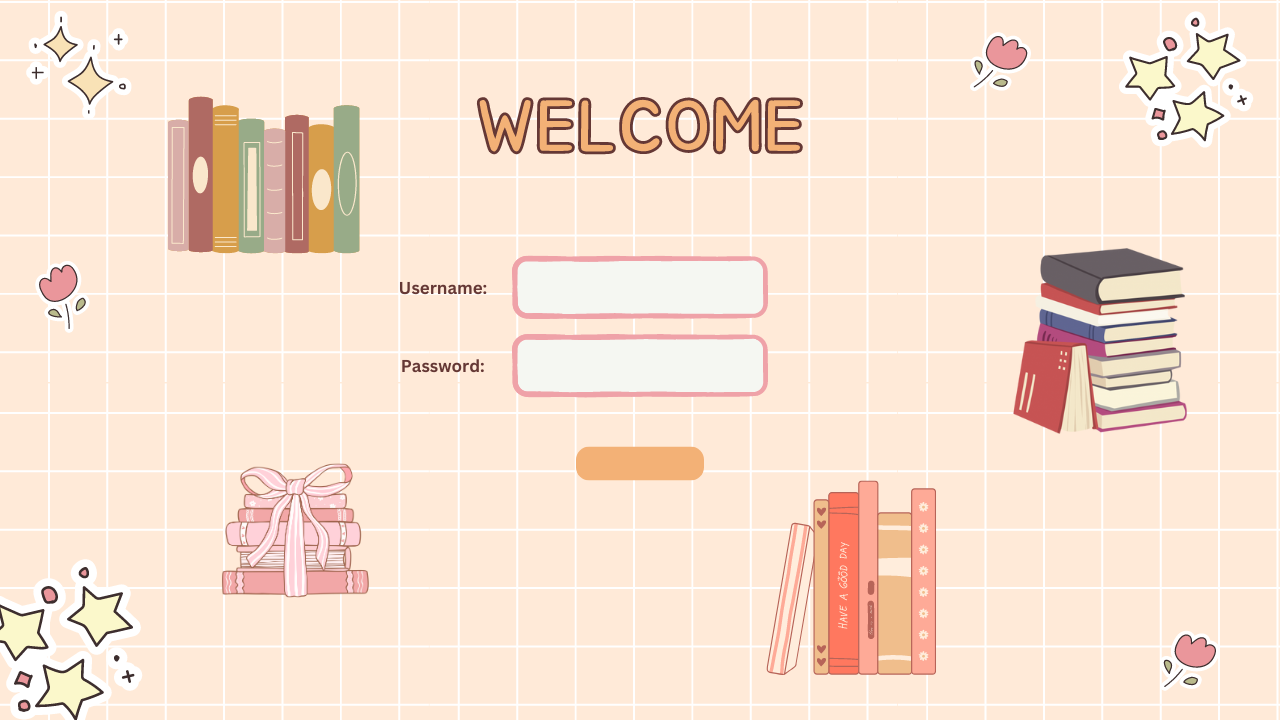
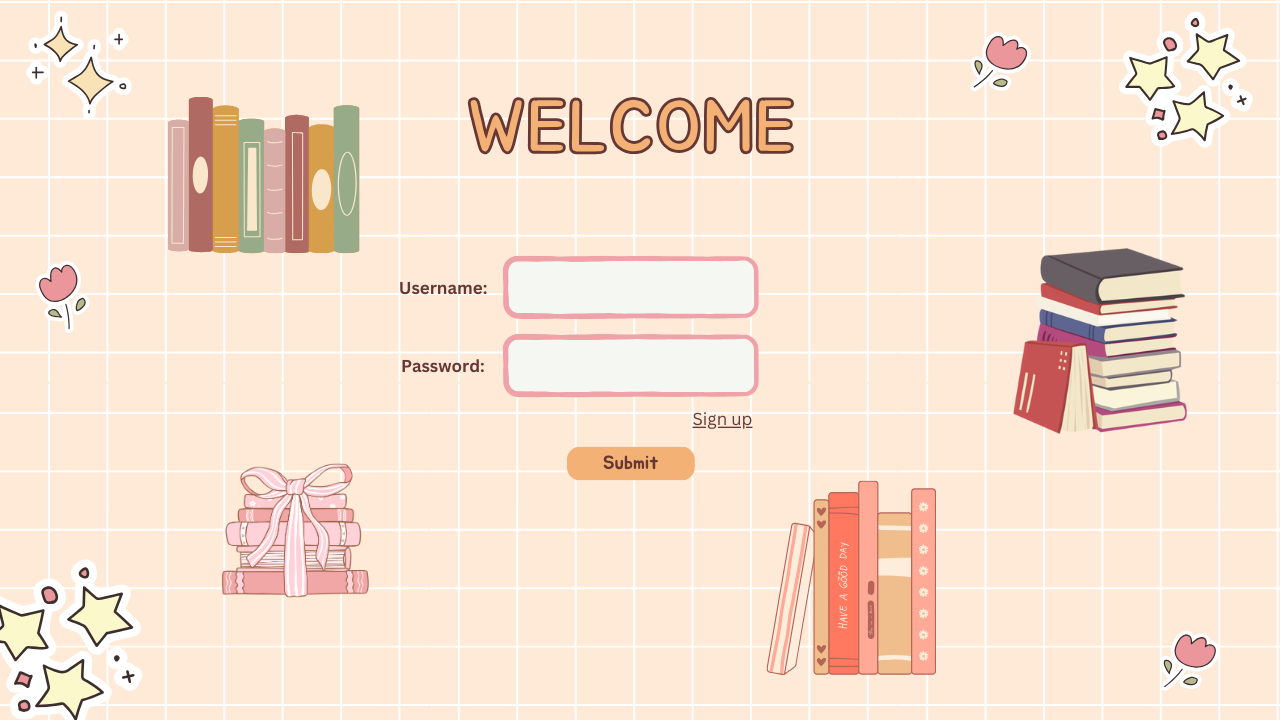
Updated UI of Sign up page, Admin user profile page, and user homepage ui (the design instead of book documentation)

diff --git a/Smart Library Management System/Admin User Profile Page.xaml b/Smart Library Management System/Admin User Profile Page.xaml
@@ -1,0 +1,26 @@
+<Window x:Class="Smart_Library_Management_System.Admin_User_Profile_Page"
+        xmlns="http://schemas.microsoft.com/winfx/2006/xaml/presentation"
+        xmlns:x="http://schemas.microsoft.com/winfx/2006/xaml"
+        xmlns:d="http://schemas.microsoft.com/expression/blend/2008"
+        xmlns:mc="http://schemas.openxmlformats.org/markup-compatibility/2006"
+        xmlns:local="clr-namespace:Smart_Library_Management_System"
+        mc:Ignorable="d"
+        Title="Admin_User_Profile_Page" Height="720" Width="1280">
+    <Window.Background>
+        <ImageBrush ImageSource="/ADMINUSER PROFILE.png"/>
+    </Window.Background>
+    <Grid>
+        <TextBox x:Name="tbAccountID" HorizontalAlignment="Left" Height="26" Margin="683,208,0,0" TextWrapping="Wrap" Text="" VerticalAlignment="Top" Width="239" FontFamily="Verdana" FontSize="18" Background="{x:Null}" BorderBrush="{x:Null}" SelectionBrush="{x:Null}" SelectionTextBrush="{x:Null}" Foreground="#FF653835"/>
+        <TextBox x:Name="tbAccountType" HorizontalAlignment="Left" Height="26" Margin="683,253,0,0" TextWrapping="Wrap" Text="" VerticalAlignment="Top" Width="239" FontFamily="Verdana" FontSize="18" Background="{x:Null}" BorderBrush="{x:Null}" SelectionBrush="{x:Null}" SelectionTextBrush="{x:Null}" Foreground="#FF653835"/>
+        <TextBox x:Name="tbUsername" HorizontalAlignment="Left" Height="26" Margin="683,298,0,0" TextWrapping="Wrap" Text="" VerticalAlignment="Top" Width="239" FontFamily="Verdana" FontSize="18" Background="{x:Null}" BorderBrush="{x:Null}" SelectionBrush="{x:Null}" SelectionTextBrush="{x:Null}" Foreground="#FF653835"/>
+        <TextBox x:Name="tbPassword" HorizontalAlignment="Left" Height="26" Margin="683,343,0,0" TextWrapping="Wrap" Text="" VerticalAlignment="Top" Width="239" FontFamily="Verdana" FontSize="18" Background="{x:Null}" BorderBrush="{x:Null}" SelectionBrush="{x:Null}" SelectionTextBrush="{x:Null}" Foreground="#FF653835"/>
+        <TextBox x:Name="tbFirstName" HorizontalAlignment="Left" Height="26" Margin="683,388,0,0" TextWrapping="Wrap" Text="" VerticalAlignment="Top" Width="239" FontFamily="Verdana" FontSize="18" Background="{x:Null}" BorderBrush="{x:Null}" SelectionBrush="{x:Null}" SelectionTextBrush="{x:Null}" Foreground="#FF653835"/>
+        <TextBox x:Name="tbLastName" HorizontalAlignment="Left" Height="26" Margin="683,433,0,0" TextWrapping="Wrap" Text="" VerticalAlignment="Top" Width="239" FontFamily="Verdana" FontSize="18" Background="{x:Null}" BorderBrush="{x:Null}" SelectionBrush="{x:Null}" SelectionTextBrush="{x:Null}" Foreground="#FF653835"/>
+        <Button x:Name="btnSave" Content="Button" HorizontalAlignment="Left" Height="37" Margin="741,518,0,0" VerticalAlignment="Top" Width="117" Opacity="0.01" Click="btnSave_Click"/>
+        <Button x:Name="btnTakeAPhoto" Content="Button" HorizontalAlignment="Left" Height="38" Margin="360,446,0,0" VerticalAlignment="Top" Width="120" Opacity="0.01"/>
+        <Button x:Name="btnUpload" Content="Button" HorizontalAlignment="Left" Height="38" Margin="223,446,0,0" VerticalAlignment="Top" Width="118" Opacity="0.01" Click="btnUpload_Click"/>
+        <Image x:Name="imagePicture" HorizontalAlignment="Left" Height="150" Margin="278,201,0,0" VerticalAlignment="Top" Width="160"/>
+        <Button x:Name="btnHome" Content="Button" HorizontalAlignment="Left" Height="70" Margin="10,0,0,0" VerticalAlignment="Top" Width="80" Opacity="0.01" Click="btnHome_Click"/>
+
+    </Grid>
+</Window>

diff --git a/Smart Library Management System/Signup Page.xaml b/Smart Library Management System/Signup Page.xaml
@@ -1,0 +1,24 @@
+<Window x:Class="Smart_Library_Management_System.Signup_Page"
+        xmlns="http://schemas.microsoft.com/winfx/2006/xaml/presentation"
+        xmlns:x="http://schemas.microsoft.com/winfx/2006/xaml"
+        xmlns:d="http://schemas.microsoft.com/expression/blend/2008"
+        xmlns:mc="http://schemas.openxmlformats.org/markup-compatibility/2006"
+        xmlns:local="clr-namespace:Smart_Library_Management_System"
+        mc:Ignorable="d"
+        Title="Signup_Page" Height="720" Width="1280">
+    <Window.Background>
+        <ImageBrush ImageSource="/SIGN UP.png"/>
+    </Window.Background>
+    <Grid>
+        <TextBox x:Name="tbFirstName" HorizontalAlignment="Left" Height="26" Margin="669,208,0,0" TextWrapping="Wrap" Text="" VerticalAlignment="Top" Width="228" FontFamily="Verdana" FontSize="18" Background="{x:Null}" BorderBrush="{x:Null}" SelectionBrush="{x:Null}" SelectionTextBrush="{x:Null}" Foreground="#FF653835"/>
+        <TextBox x:Name="tbLastName" HorizontalAlignment="Left" Height="26" Margin="669,274,0,0" TextWrapping="Wrap" Text="" VerticalAlignment="Top" Width="228" FontFamily="Verdana" FontSize="18" Background="{x:Null}" BorderBrush="{x:Null}" SelectionBrush="{x:Null}" SelectionTextBrush="{x:Null}" Foreground="#FF653835"/>
+        <TextBox x:Name="tbUsername" HorizontalAlignment="Left" Height="26" Margin="669,340,0,0" TextWrapping="Wrap" Text="" VerticalAlignment="Top" Width="228" FontFamily="Verdana" FontSize="18" Background="{x:Null}" BorderBrush="{x:Null}" SelectionBrush="{x:Null}" SelectionTextBrush="{x:Null}" Foreground="#FF653835"/>
+        <TextBox x:Name="tbPassword" HorizontalAlignment="Left" Height="26" Margin="669,406,0,0" TextWrapping="Wrap" Text="" VerticalAlignment="Top" Width="228" FontFamily="Verdana" FontSize="18" Background="{x:Null}" BorderBrush="{x:Null}" SelectionBrush="{x:Null}" SelectionTextBrush="{x:Null}" Foreground="#FF653835"/>
+        <TextBox x:Name="tbRepeatPassword" HorizontalAlignment="Left" Height="26" Margin="669,472,0,0" TextWrapping="Wrap" Text="" VerticalAlignment="Top" Width="228" FontFamily="Verdana" FontSize="18" Background="{x:Null}" BorderBrush="{x:Null}" SelectionBrush="{x:Null}" SelectionTextBrush="{x:Null}" Foreground="#FF653835"/>
+        <Button x:Name="btnTakeAPhoto" Content="Button" HorizontalAlignment="Left" Height="32" Margin="313,434,0,0" VerticalAlignment="Top" Width="111" Opacity="0.01" Click="btnTakeAPhoto_Click"/>
+        <Button x:Name="btnUpload" Content="Button" HorizontalAlignment="Left" Height="32" Margin="174,434,0,0" VerticalAlignment="Top" Width="111" Opacity="0.01" Click="btnUpload_Click"/>
+        <Button x:Name="btnAlreadyAMember" Content="Button" HorizontalAlignment="Left" Height="25" Margin="754,519,0,0" VerticalAlignment="Top" Width="165" Click="btnAlreadyAMember_Click" Opacity="0.01"/>
+        <Image x:Name="imagePicture" HorizontalAlignment="Left" Height="150" Margin="221,230,0,0" VerticalAlignment="Top" Width="160"/>
+        <Button x:Name="btnSubmit" Content="Button" HorizontalAlignment="Left" Height="29" Margin="722,556,0,0" VerticalAlignment="Top" Width="121" Opacity="0.01" Click="btnSubmit_Click"/>
+    </Grid>
+</Window>

diff --git a/Smart Library Management System/MainWindow.xaml b/Smart Library Management System/MainWindow.xaml
@@ -7,13 +7,14 @@
         mc:Ignorable="d"
         Title="Login Page" Height="720" Width="1280" ResizeMode="NoResize">
     <Window.Background>
-        <ImageBrush ImageSource="/LOG IN.png"/>
+        <ImageBrush ImageSource="C:\Users\22-0033c\Source\Repos\Smart-Library-Management-System\Smart Library Management System\LOG IN.png"/>
     </Window.Background>
-    <Grid>
+    <Grid Margin="-8,0,8,0">
         <TextBox x:Name="tbUsername" HorizontalAlignment="Center" Height="26" Margin="0,258,0,0" TextWrapping="Wrap" Text="" VerticalAlignment="Top" Width="228" FontFamily="Verdana" FontSize="18" Background="{x:Null}" BorderBrush="{x:Null}" SelectionBrush="{x:Null}" SelectionTextBrush="{x:Null}" Foreground="#FF653835"/>
         <TextBox x:Name="tbPasswordCheck" HorizontalAlignment="Center" Height="26" TextWrapping="Wrap" Text="" VerticalAlignment="Top" Width="228" FontFamily="Verdana" FontSize="18" Background="{x:Null}" BorderBrush="{x:Null}" SelectionBrush="{x:Null}" SelectionTextBrush="{x:Null}" Foreground="#FF653835" Margin="0,333,0,0" Visibility="Collapsed"/>
         <PasswordBox x:Name="pbPassword" HorizontalAlignment="Center" Margin="0,333,0,0" VerticalAlignment="Top" Width="228" Height="26" FontSize = "18" Background="{x:Null}" BorderBrush="{x:Null}" SelectionBrush="{x:Null}" SelectionTextBrush="{x:Null}" Foreground="#FF653835"/>
         <CheckBox x:Name="cbShowPassword" Content="Show Password" HorizontalAlignment="Left" Margin="526,392,0,0" VerticalAlignment="Top" RenderTransformOrigin="0.453,0.731" Foreground="#FF653835" FontFamily="Verdana" Checked="cbShowPassword_Checked" Unchecked="cbShowPassword_Unchecked"/>
-        <Button x:Name="btSubmit" Content="Submit" HorizontalAlignment="Center" Margin="0,426,0,0" VerticalAlignment="Top" RenderTransformOrigin="0.353,0.019" Click="btSubmit_Click" Background="{x:Null}" BorderBrush="{x:Null}" Foreground="#FF653835" FontSize="18" FontFamily="Verdana" Width="108"/>
+        <Button x:Name="btSubmit" Content="Submit" HorizontalAlignment="Left" Margin="568,422,0,0" VerticalAlignment="Top" RenderTransformOrigin="0.353,0.019" Click="btSubmit_Click" Background="White" BorderBrush="{x:Null}" Foreground="#FF653835" FontSize="18" FontFamily="Verdana" Width="126" Height="33" Opacity="0.01"/>
+        <Button x:Name="btSignup" Content="Button" HorizontalAlignment="Left" Height="29" Margin="690,386,0,0" VerticalAlignment="Top" Width="71" Opacity="0.01" Click="btSignup_Click"/>
     </Grid>
 </Window>

diff --git a/Smart Library Management System/User Homepage.xaml b/Smart Library Management System/User Homepage.xaml
@@ -7,13 +7,13 @@
         mc:Ignorable="d"
         Title="User Homepage" Height="720" Width="1280" ResizeMode="NoResize">
     <Window.Background>
-        <ImageBrush ImageSource="/User Homepage.png"/>
+        <ImageBrush ImageSource="C:\Users\22-0033c\Source\Repos\Smart-Library-Management-System\Smart Library Management System\User Homepage.png"/>
     </Window.Background>
     <Grid>
         <Button x:Name="btLogout" Content="Button" HorizontalAlignment="Left" Height="60" Margin="1205,0,0,0" VerticalAlignment="Top" Width="60" Opacity="0.01" Click="btLogout_Click"/>
         <Button x:Name="btProfile" Content="Button" HorizontalAlignment="Left" Height="190" Margin="214,157,0,0" VerticalAlignment="Top" Width="190" Opacity="0.01" Click="btProfile_Click"/>
         <Button x:Name="btBorrowBook" Content="Button" HorizontalAlignment="Center" Height="190" Margin="0,157,0,0" VerticalAlignment="Top" Width="190" Opacity="0.01" Click="btBorrowBook_Click"/>
-        <Button x:Name="btBookDocumentation"  Content="Button" HorizontalAlignment="Left" Height="190" Margin="841,157,0,0" VerticalAlignment="Top" Width="216" Opacity="0.01" Click="btBookDocumentation_Click"/>
+        <Button x:Name="btReturnBook"  Content="Button" HorizontalAlignment="Left" Height="190" Margin="841,157,0,0" VerticalAlignment="Top" Width="216" Opacity="0.01" Click="btReturnBook_Click"/>
         <Button x:Name="btBookList" Content="Button" HorizontalAlignment="Center" Height="190" Margin="0,422,0,0" VerticalAlignment="Top" Width="190" Opacity="0.01" Click="btBookList_Click"/>
 
     </Grid>

diff --git a/Smart Library Management System/Signup Page.xaml.cs b/Smart Library Management System/Signup Page.xaml.cs
@@ -1,0 +1,57 @@
+using Microsoft.Win32;
+using System;
+using System.Collections.Generic;
+using System.Linq;
+using System.Text;
+using System.Threading.Tasks;
+using System.Windows;
+using System.Windows.Controls;
+using System.Windows.Data;
+using System.Windows.Documents;
+using System.Windows.Input;
+using System.Windows.Media;
+using System.Windows.Media.Imaging;
+using System.Windows.Shapes;
+
+namespace Smart_Library_Management_System
+{
+    /// <summary>
+    /// Interaction logic for Signup_Page.xaml
+    /// </summary>
+    public partial class Signup_Page : Window
+    {
+        public Signup_Page()
+        {
+            InitializeComponent();
+        }
+
+        private void btnTakeAPhoto_Click(object sender, RoutedEventArgs e)
+        {
+            MessageBox.Show("Take a Photo");
+        }
+
+        private void btnUpload_Click(object sender, RoutedEventArgs e)
+        {
+            OpenFileDialog openDialog = new OpenFileDialog();
+            openDialog.Filter = "Image files|*.bmp;*.jpg;*.png";
+            openDialog.FilterIndex = 1;
+
+            if (openDialog.ShowDialog() == true)
+            {
+                imagePicture.Source = new BitmapImage(new Uri(openDialog.FileName));
+            }
+        }
+
+        private void btnAlreadyAMember_Click(object sender, RoutedEventArgs e)
+        {
+            MainWindow LP = new MainWindow();
+            LP.Show();
+            this.Close();
+        }
+
+        private void btnSubmit_Click(object sender, RoutedEventArgs e)
+        {
+            MessageBox.Show("Member Added Successfully");
+        }
+    }
+}

diff --git a/Smart Library Management System/Admin User Profile Page.xaml.cs b/Smart Library Management System/Admin User Profile Page.xaml.cs
@@ -1,0 +1,52 @@
+using Microsoft.Win32;
+using System;
+using System.Collections.Generic;
+using System.Linq;
+using System.Text;
+using System.Threading.Tasks;
+using System.Windows;
+using System.Windows.Controls;
+using System.Windows.Data;
+using System.Windows.Documents;
+using System.Windows.Input;
+using System.Windows.Media;
+using System.Windows.Media.Imaging;
+using System.Windows.Shapes;
+
+namespace Smart_Library_Management_System
+{
+    /// <summary>
+    /// Interaction logic for Admin_User_Profile_Page.xaml
+    /// </summary>
+    public partial class Admin_User_Profile_Page : Window
+    {
+        public Admin_User_Profile_Page()
+        {
+            InitializeComponent();
+        }
+
+        private void btnSave_Click(object sender, RoutedEventArgs e)
+        {
+            MessageBox.Show("Edited Successfully");
+        }
+
+        private void btnUpload_Click(object sender, RoutedEventArgs e)
+        {
+            OpenFileDialog openDialog = new OpenFileDialog();
+            openDialog.Filter = "Image files|*.bmp;*.jpg;*.png";
+            openDialog.FilterIndex = 1;
+
+            if (openDialog.ShowDialog() == true)
+            {
+                imagePicture.Source = new BitmapImage(new Uri(openDialog.FileName));
+            }
+        }
+
+        private void btnHome_Click(object sender, RoutedEventArgs e)
+        {
+            Admin_Homepage AH = new Admin_Homepage();
+            AH.Show();
+            this.Close();
+        }
+    }
+}

diff --git a/Smart Library Management System/User Homepage.xaml.cs b/Smart Library Management System/User Homepage.xaml.cs
@@ -33,7 +33,9 @@ namespace Smart_Library_Management_System
 
         private void btProfile_Click(object sender, RoutedEventArgs e)
         {
-            MessageBox.Show("Profile");
+            Admin_User_Profile_Page AUPP = new Admin_User_Profile_Page();
+            AUPP.Show();
+            this.Close();
         }
 
         private void btBorrowBook_Click(object sender, RoutedEventArgs e)
@@ -41,14 +43,14 @@ namespace Smart_Library_Management_System
             MessageBox.Show("Borrow Book");
         }
 
-        private void btBookDocumentation_Click(object sender, RoutedEventArgs e)
-        {
-            MessageBox.Show("Book Documentation");
-        }
-
         private void btBookList_Click(object sender, RoutedEventArgs e)
         {
             MessageBox.Show("Book List");
+        }
+
+        private void btReturnBook_Click(object sender, RoutedEventArgs e)
+        {
+            MessageBox.Show("Return Book");
         }
     }
 }

diff --git a/Smart Library Management System/Admin Homepage.xaml.cs b/Smart Library Management System/Admin Homepage.xaml.cs
@@ -32,7 +32,9 @@ namespace Smart_Library_Management_System
 
         private void btProfile_Click(object sender, RoutedEventArgs e)
         {
-            MessageBox.Show("Profile");
+            Admin_User_Profile_Page AUPP = new Admin_User_Profile_Page();
+            AUPP.Show();
+            this.Close();
         }
 
         private void btBookList_Click(object sender, RoutedEventArgs e)

diff --git a/Smart Library Management System/MainWindow.xaml.cs b/Smart Library Management System/MainWindow.xaml.cs
@@ -105,5 +105,12 @@ namespace Smart_Library_Management_System
                 tbPasswordCheck.Text = null;
             }
         }
+
+        private void btSignup_Click(object sender, RoutedEventArgs e)
+        {
+            Signup_Page SP = new Signup_Page();
+            SP.Show();
+            this.Close();
+        }
     }
 }
